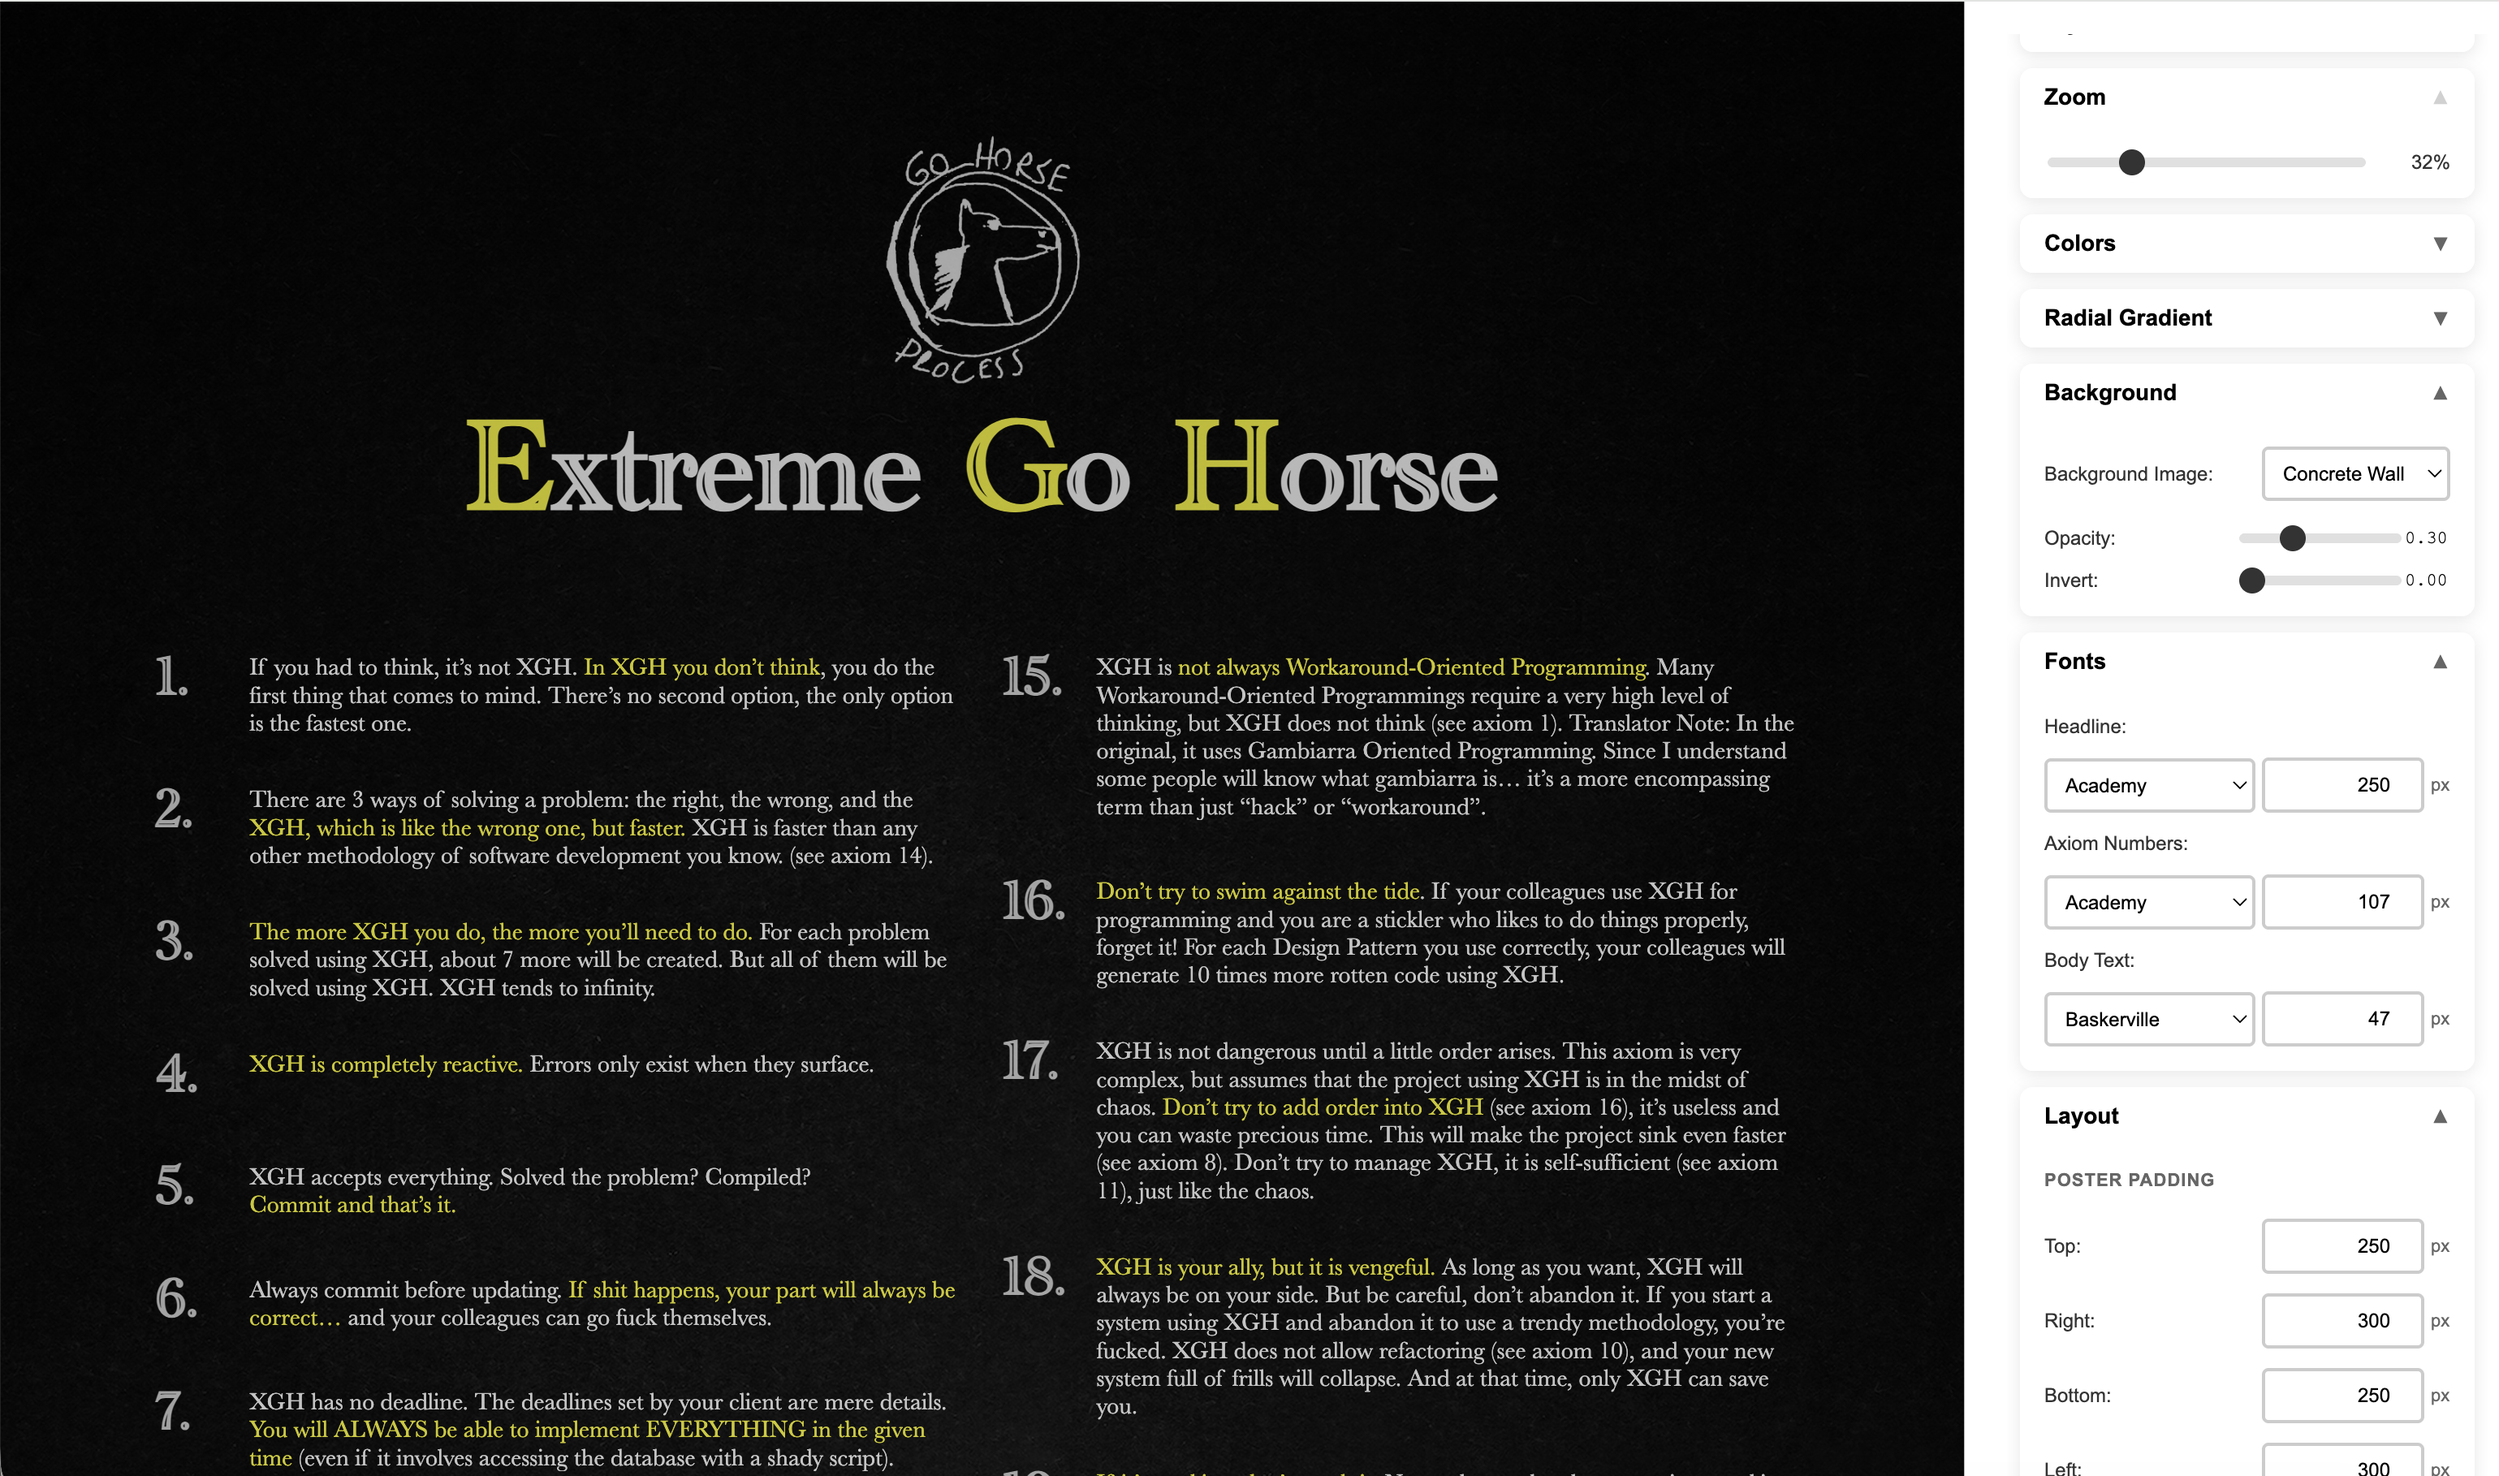
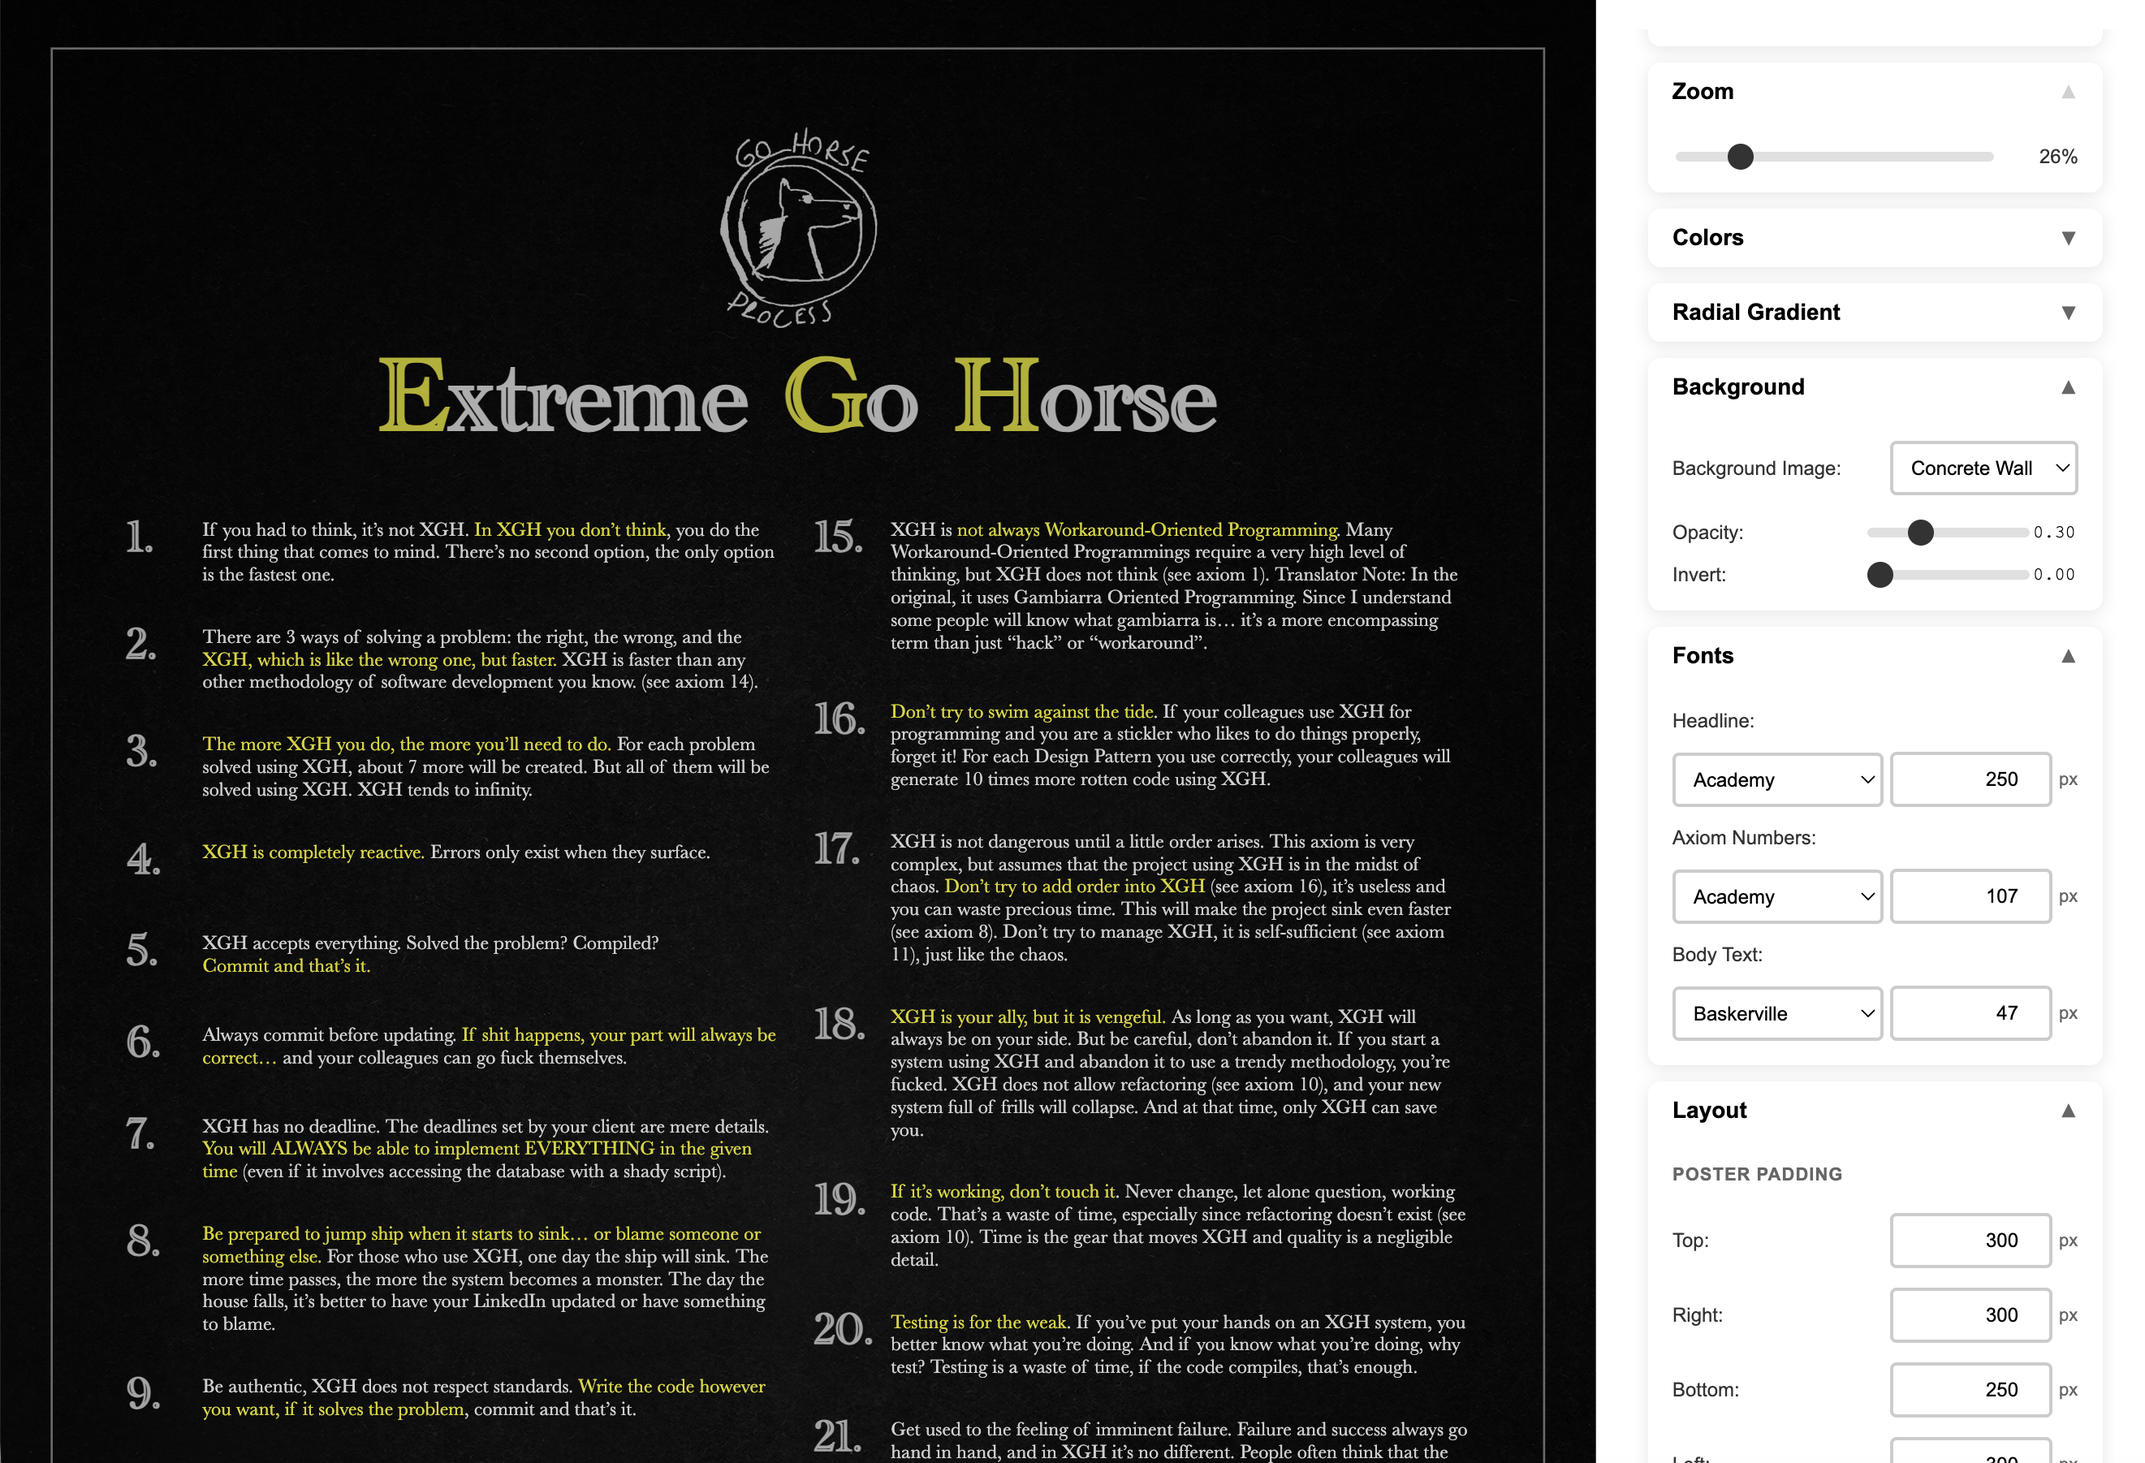
update default, update showcases

diff --git a/scripts/layout.js b/scripts/layout.js
@@ -159,11 +159,17 @@ document.addEventListener('DOMContentLoaded', function () {
     const savedAxiomGap = localStorage.getItem('axiomGap');
     const savedAxiomTextOffset = localStorage.getItem('axiomTextOffset');
 
+    const bodyStyles = getComputedStyle(document.body);
+
     if (savedPaddingTop) {
         posterPaddingTop.value = savedPaddingTop;
         document.body.style.setProperty(
             '--poster-padding-top',
             savedPaddingTop + 'px'
+        );
+    } else {
+        posterPaddingTop.value = parseInt(
+            bodyStyles.getPropertyValue('--poster-padding-top')
         );
     }
 
@@ -173,6 +179,10 @@ document.addEventListener('DOMContentLoaded', function () {
             '--poster-padding-right',
             savedPaddingRight + 'px'
         );
+    } else {
+        posterPaddingRight.value = parseInt(
+            bodyStyles.getPropertyValue('--poster-padding-right')
+        );
     }
 
     if (savedPaddingBottom) {
@@ -180,6 +190,10 @@ document.addEventListener('DOMContentLoaded', function () {
         document.body.style.setProperty(
             '--poster-padding-bottom',
             savedPaddingBottom + 'px'
+        );
+    } else {
+        posterPaddingBottom.value = parseInt(
+            bodyStyles.getPropertyValue('--poster-padding-bottom')
         );
     }
 
@@ -189,11 +203,17 @@ document.addEventListener('DOMContentLoaded', function () {
             '--poster-padding-left',
             savedPaddingLeft + 'px'
         );
+    } else {
+        posterPaddingLeft.value = parseInt(
+            bodyStyles.getPropertyValue('--poster-padding-left')
+        );
     }
 
     if (savedIconSize) {
         iconSize.value = savedIconSize;
         document.body.style.setProperty('--icon-size', savedIconSize + 'px');
+    } else {
+        iconSize.value = parseInt(bodyStyles.getPropertyValue('--icon-size'));
     }
 
     if (savedHeadlineMargin) {
@@ -201,6 +221,10 @@ document.addEventListener('DOMContentLoaded', function () {
         document.body.style.setProperty(
             '--headline-margin',
             savedHeadlineMargin + 'px'
+        );
+    } else {
+        headlineMargin.value = parseInt(
+            bodyStyles.getPropertyValue('--headline-margin')
         );
     }
 
@@ -212,7 +236,6 @@ document.addEventListener('DOMContentLoaded', function () {
         );
     } else {
         // Initialize with default value from CSS
-        const bodyStyles = getComputedStyle(document.body);
         const defaultValue =
             bodyStyles.getPropertyValue('--axioms-column-flow').trim() ===
             'true';

diff --git a/styles/layout-1.css b/styles/layout-1.css
@@ -119,7 +119,7 @@ header h1 {
     font-family: var(--headline-font);
     font-size: var(--headline-size);
     color: var(--white-translucent);
-    opacity: 0.8;
+    opacity: 0.75;
     margin: 0;
 }
 
@@ -180,6 +180,6 @@ body[style*='--axioms-column-flow: true'] .axiom {
     font-family: var(--body-font);
     font-size: var(--body-size);
     margin: 0;
-    opacity: 0.85;
+    opacity: 0.9;
     margin-top: var(--axiom-text-offset);
 }

diff --git a/styles/defaults.css b/styles/defaults.css
@@ -44,12 +44,12 @@ body {
     --background-invert: 0;
 
     /* Layout configuration */
-    --poster-padding-top: 250px;
+    --poster-padding-top: 300px;
     --poster-padding-right: 300px;
     --poster-padding-bottom: 250px;
     --poster-padding-left: 300px;
     --icon-size: 500px;
-    --headline-margin: 170px;
+    --headline-margin: 100px;
     --axiom-gap-row: 110px;
     --axiom-gap-column: 80px;
     --axiom-text-offset: -16px;

diff --git a/scripts/init-controls.js b/scripts/init-controls.js
@@ -121,7 +121,7 @@ document.addEventListener('DOMContentLoaded', function () {
     if (posterPaddingTop && !localStorage.getItem('posterPaddingTop')) {
         const defaultValue =
             parseInt(bodyStyles.getPropertyValue('--poster-padding-top')) ||
-            250;
+            300;
         posterPaddingTop.value = defaultValue;
     }
 
